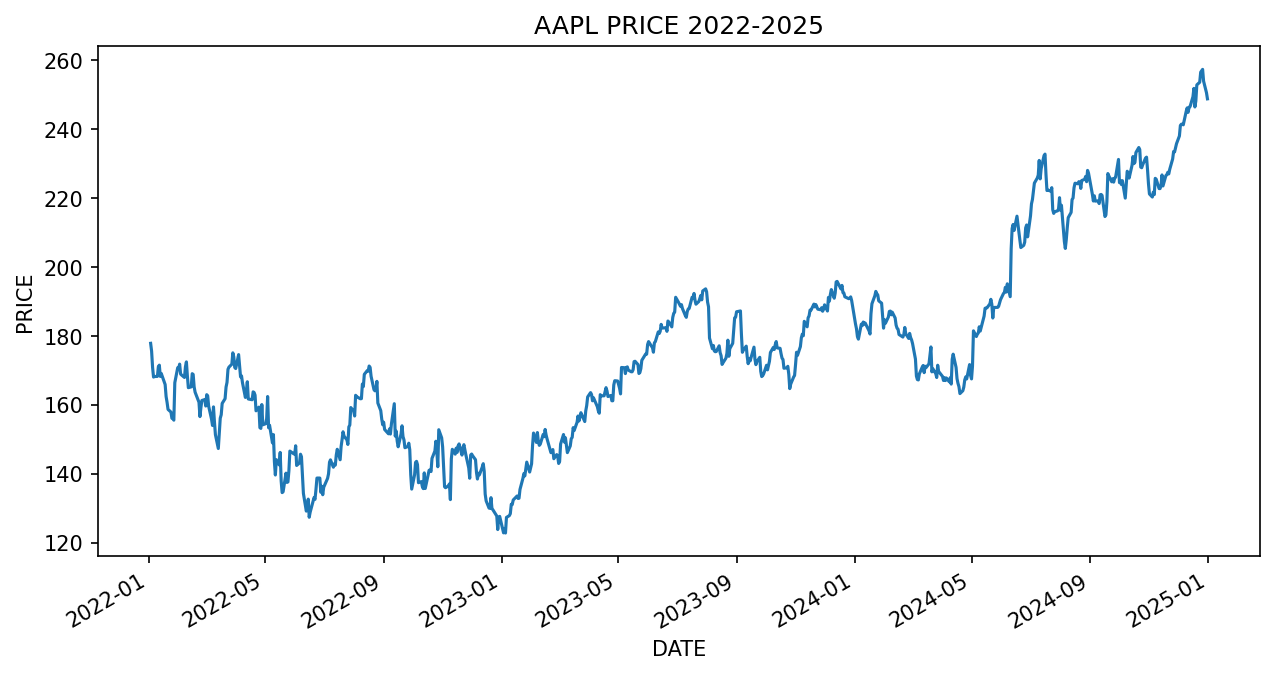
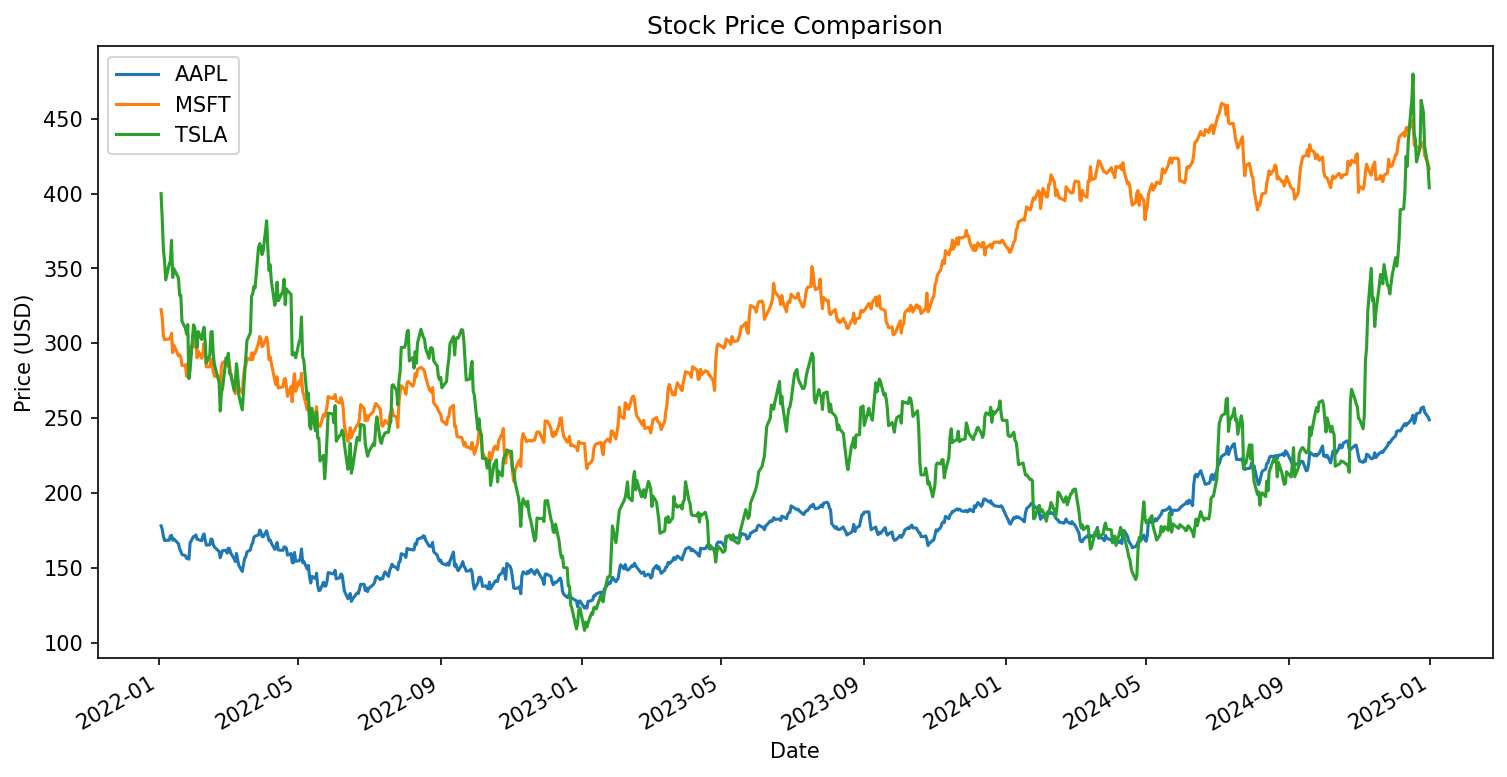
Add S&P 500 benchmark comparison

diff --git a/README.md b/README.md
@@ -1,8 +1,8 @@
 # Stock Analysis Project
 
-A Python-based stock market analysis notebook that uses historical data to compare the performance of **Apple (AAPL)**, **Microsoft (MSFT)**, and **Tesla (TSLA)** between **2022-01-01** and **2024-01-01**.
+A Python-based stock market analysis notebook that uses historical data to compare the performance of **Apple (AAPL)**, **Microsoft (MSFT)**, and **Tesla (TSLA)** between **2022-01-01** and **2025-01-01**, benchmarked against the **S&P 500**.
 
-The project downloads stock data using `yfinance`, performs basic financial analysis, and visualizes price trends, daily returns, volatility, and correlations.
+The project downloads stock data using `yfinance`, performs financial analysis, and visualizes price trends, daily returns, volatility, correlations, risk-adjusted performance, and relative performance against the broader market.
 
 ---
 
@@ -18,6 +18,8 @@ The project downloads stock data using `yfinance`, performs basic financial anal
 - Generate correlation matrix between stocks
 - Visualize correlations using a heatmap
 - Calculate total return for each stock
+- Calculate Sharpe ratio (risk-adjusted return) for each stock
+- Compare each stock's normalized performance against the S&P 500 benchmark
 - Summarize key metrics in a table
 
 ---
@@ -27,6 +29,7 @@ The project downloads stock data using `yfinance`, performs basic financial anal
 - **AAPL** — Apple Inc.
 - **MSFT** — Microsoft Corporation
 - **TSLA** — Tesla, Inc.
+- **S&P 500 (^GSPC)** — Market benchmark
 
 ---
 
@@ -41,7 +44,10 @@ The project downloads stock data using `yfinance`, performs basic financial anal
 7. Build a correlation matrix
 8. Plot correlation heatmap
 9. Calculate total return
-10. Create a summary table
+10. Calculate Sharpe ratio for each stock
+11. Download S&P 500 benchmark data
+12. Normalize and compare stock performance against the benchmark
+13. Create a summary table
 
 ---
 
@@ -89,9 +95,11 @@ jupyter notebook
 ### Closing Price Trends
 The notebook plots the price movement of AAPL, MSFT, and TSLA over the selected time period.
 
+![Price Comparison](images/price_comparison.png)
+
 ### Daily Returns
 Daily percentage change is used to observe short-term stock movement.
-![Price Comparison](images/price_comparison.png)
+
 ### Volatility
 The project calculates both:
 - **Daily volatility**
@@ -99,11 +107,28 @@ The project calculates both:
 
 ### Correlation Matrix
 A heatmap is generated to show how strongly the stocks move together.
+
 ![Correlation Heatmap](images/correlation_heatmap.png)
+
 ### Total Return
 The total return for each stock is calculated as:
 
+```
 Total Return (%) = ((Final Price / Initial Price) - 1) × 100
+```
+
+### Sharpe Ratio
+The Sharpe ratio measures risk-adjusted return — how much return a stock generates per unit of risk taken, after subtracting a risk-free baseline (approximated here using a 4% annual risk-free rate). A higher Sharpe ratio means better reward relative to the risk involved, rather than simply the highest raw return.
+
+```
+Sharpe Ratio = (Annual Return - Risk-Free Rate) / Annual Volatility
+```
+
+### Benchmark Comparison (vs. S&P 500)
+Raw prices across AAPL, MSFT, TSLA, and the S&P 500 are not directly comparable since each starts from a different price level. The notebook normalizes all series to a common starting value of 100, allowing a direct visual comparison of relative growth over the period — revealing which stocks outperformed or underperformed the broader market.
+
+![Benchmark Comparison](images/benchmark_comparison.png)
+
 ---
 
 ## Output Summary
@@ -115,6 +140,8 @@ The final output includes:
 - Correlation matrix
 - Heatmap visualization
 - Total return summary table
+- Sharpe ratio for each stock
+- Normalized performance comparison against the S&P 500 benchmark
 
 ---
 
@@ -123,6 +150,10 @@ The final output includes:
 ```bash
 project-1-stock-analysis.ipynb
 README.md
+images/
+    price_comparison.png
+    correlation_heatmap.png
+    benchmark_comparison.png
 ```
 
 ---
@@ -132,8 +163,6 @@ README.md
 You can extend this project by adding:
 
 - Moving averages
-- Risk-adjusted return metrics
-- Sharpe ratio
 - Candlestick charts
 - Portfolio simulation
 - More stocks and sectors
@@ -143,8 +172,9 @@ You can extend this project by adding:
 
 ## Author
 
-**Ali**
+**Ali Jalayian**
 [GitHub](https://github.com/alijalayian)
+
 ---
 
 ## License
